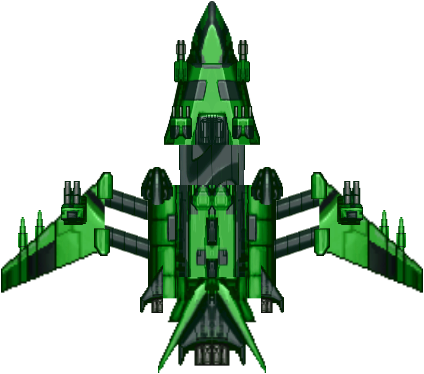
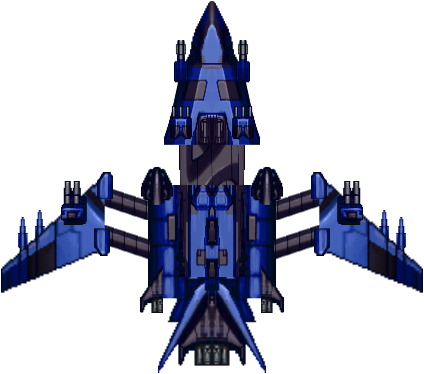
Updated collisions checks and made each enemy color unique.

Changed region(s): [[0.3066, 0.0, 1.0, 1.0], [0.0, 0.4412, 0.3066, 0.7941]]

diff --git a/Group4Capstone/Assets/EnemyAI.cs b/Group4Capstone/Assets/EnemyAI.cs
@@ -9,7 +9,7 @@ using Pathfinding;
 public class EnemyAI : MonoBehaviour
 {
     public GameObject enemyLaser;
-    private float enemyAllowedShootingDistance = 5F;
+    private float enemyAllowedShootingDistance = 6F;
     private bool weaponDisable = false;
 
     // Private variables to cache necessary components.
@@ -86,10 +86,12 @@ public class EnemyAI : MonoBehaviour
         seeker.StartPath(transform.position, target.position, OnPathComplete);
 
         initialPosition = transform.position;
+        
+        startTimeShooting = Time.time;
 
         StartCoroutine(UpdatePath());
 
-        startTimeShooting = Time.time;
+       
     }
 	
     /// <summary>
@@ -220,7 +222,7 @@ public class EnemyAI : MonoBehaviour
     void OnCollisionEnter2D(Collision2D col)
     {
         // If the asteroid collides with a laser...
-        if (col.gameObject.tag == "Laser" || col.gameObject.tag == "Inferno" || col.gameObject.tag == "EnemyLaser")
+        if (col.gameObject.tag == "Laser" || col.gameObject.tag == "Inferno" || col.gameObject.tag == "EnemyLaser" || col.gameObject.tag == "Enemy")
         {
             RespawnSelf();            // Destroy the asteroid.
             Destroy(col.gameObject);  // And also destroy the laser blast.

diff --git a/Group4Capstone/Assets/Scripts/EnemyTypeB.cs b/Group4Capstone/Assets/Scripts/EnemyTypeB.cs
@@ -74,7 +74,7 @@ public class EnemyTypeB : MonoBehaviour
     void OnCollisionEnter2D(Collision2D col)
     {
         // If the asteroid collides with a laser...
-        if (col.gameObject.tag == "Laser" || col.gameObject.tag == "Inferno" || col.gameObject.tag == "EnemyLaser")
+        if (col.gameObject.tag == "Laser" || col.gameObject.tag == "Inferno" || col.gameObject.tag == "EnemyLaser" || col.gameObject.tag == "Enemy")
         {
             // Play the explosion sound effect.
             References.global.soundEffects.PlayExplosionSound();
